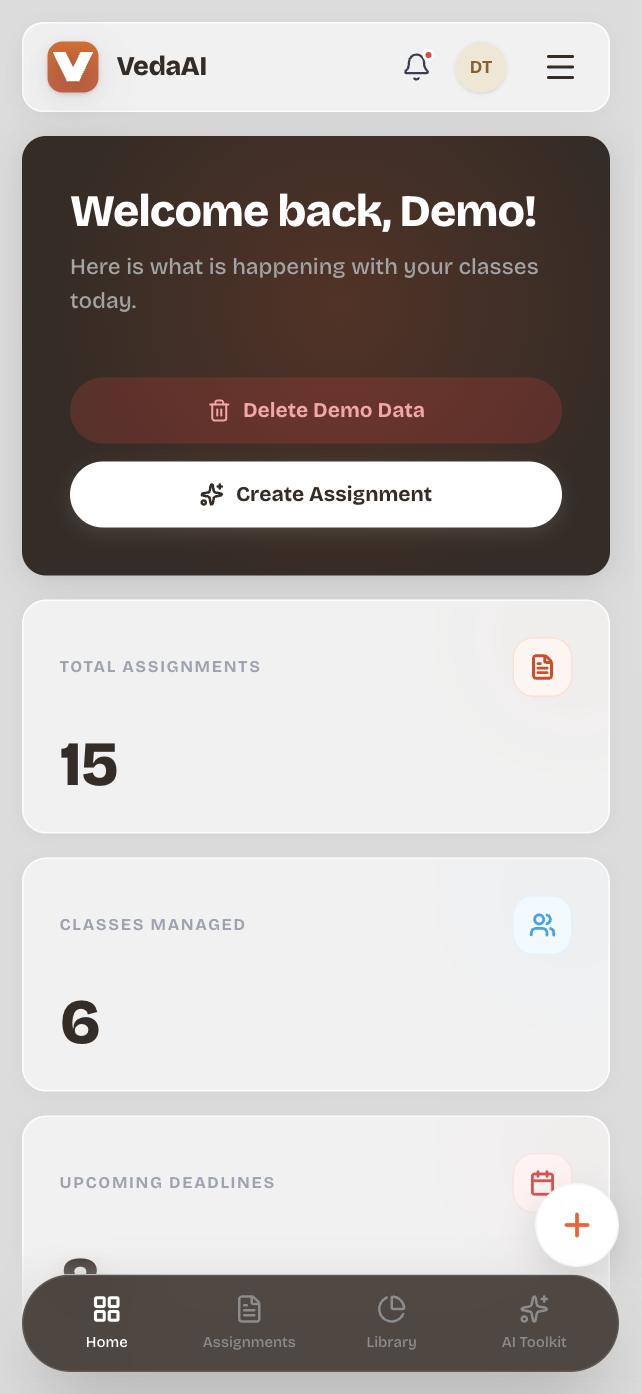
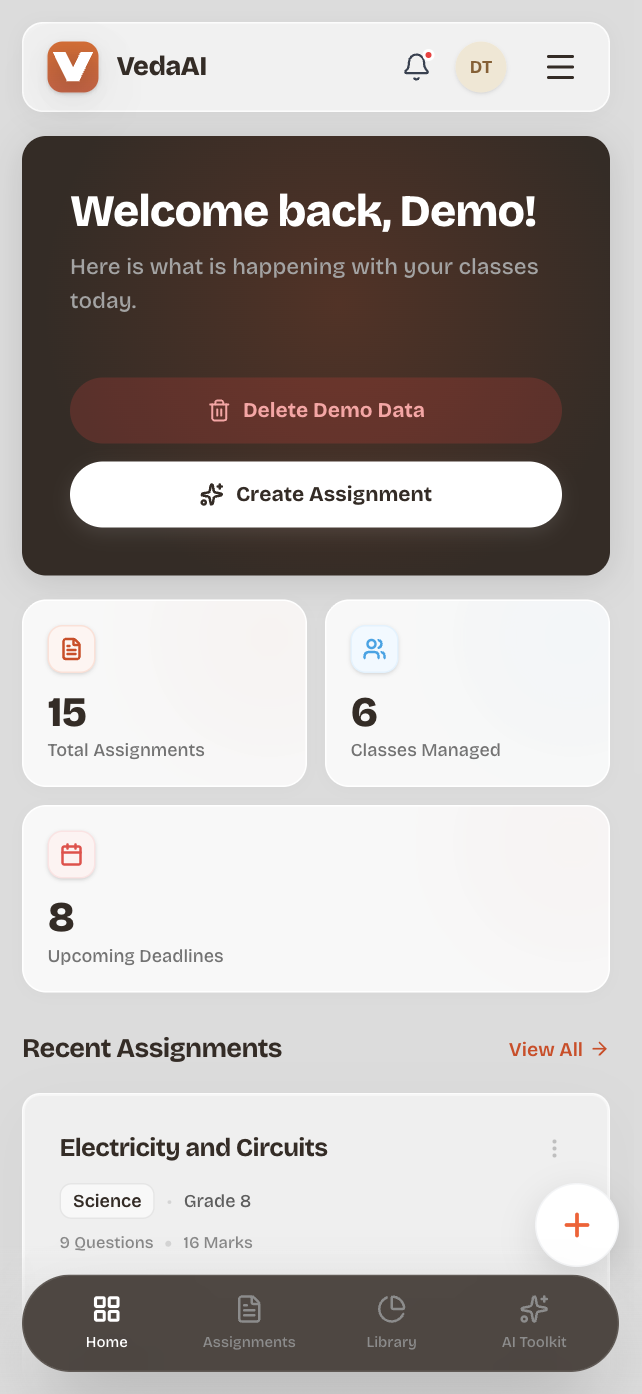
docs: keep UI screenshots strictly side-by-side and push updated image assets

diff --git a/README.md b/README.md
@@ -24,9 +24,8 @@
 
 ## UI Screenshots
 <p align="center">
-  <img src="./frontend/public/dashboard.png" alt="Desktop View" height="500" />
-  &nbsp; &nbsp; &nbsp;
-  <img src="./frontend/public/mobile_view.png" alt="Mobile View" height="500" />
+  <img src="./frontend/public/dashboard.png" alt="Desktop View" width="73%" />
+  <img src="./frontend/public/mobile_view.png" alt="Mobile View" width="25%" />
 </p>
 
 ---